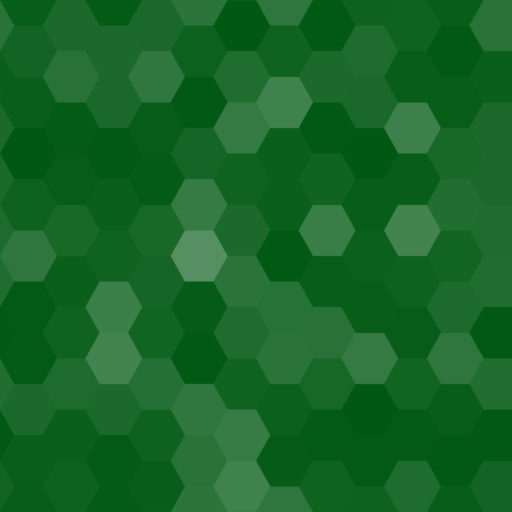
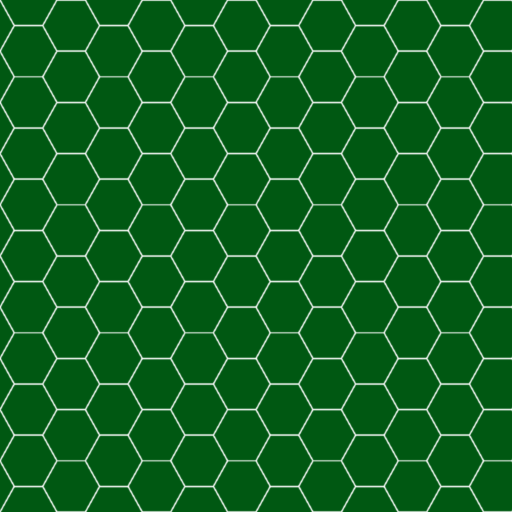
working on hex styling

diff --git a/src/views/Main.tsx b/src/views/Main.tsx
@@ -191,7 +191,6 @@ const Main = () => {
                     className={classNames(
                         'pointer-events-none absolute left-0 top-0 z-10 size-full drop-shadow-omni-lg transition-[transform] duration-[--clip-shape-animation-duration]',
                         'before:absolute before:left-0 before:top-0 before:size-full before:bg-theme-primary before:[mask-image:url("/svg/hexagon-mask.svg")] before:[mask-repeat:repeat]',
-                        'before:[mask-composite:exclude]',
                         // 'after:bg-theme-primary',
                         // 'after:pixelate after:absolute after:left-0 after:top-0 after:size-full after:opacity-75 after:clip-inset-r-[55%]',
                         expansionState === 'home'

diff --git a/src/styles/animations.css b/src/styles/animations.css
@@ -361,10 +361,10 @@
 
     --left-mask-position-home: calc(50vw - var(--hex-outer-radius));
 
-    --left-mask-size-category: auto 120%;
+    --left-mask-size-category: 10rem;
     --left-mask-position-category: 2vw;
 
-    --left-mask-size-post: auto 98%;
+    --left-mask-size-post: 10rem;
     --left-mask-position-post: 1vw;
 }
 
